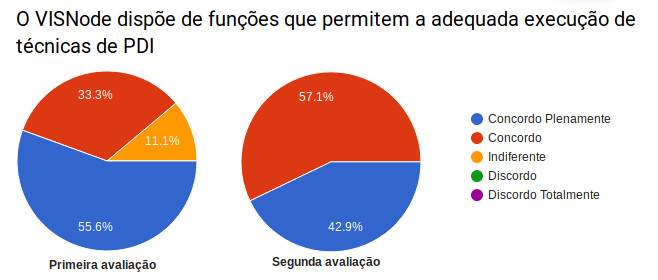
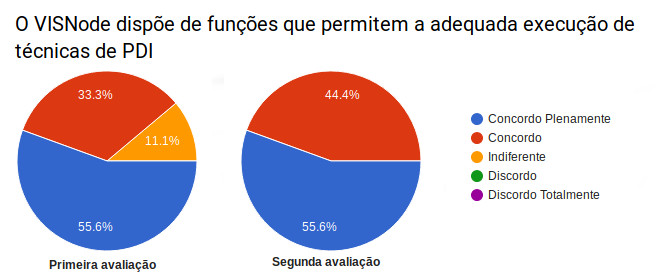
Updates from ShareLaTeX

diff --git a/abntex2-modelo-trabalho-academico.tex b/abntex2-modelo-trabalho-academico.tex
@@ -1103,8 +1103,7 @@ Segundo \citet{guilherme:2007}, para que um pixel seja marcado para exclusão el
 \item Ao menos um dos pixels da segunda máscara deve ser branco;
 \end{itemize}
 
-
-\begin{figure}[ht]
+\begin{figure}[H]
 \centering
 \caption{pixels P2 ou P8 ou P4 devem ser um pixel branco}
 \includegraphics[width=0.3\textwidth]{imagens/zhangsuen1.png}
@@ -1114,7 +1113,7 @@ Fonte: Guilherme (2007, p. 16)
 \end{figure}
 
 
-\begin{figure}[ht]
+\begin{figure}[H]
 \centering
 \caption{pixels P2 ou P8 ou P4 devem ser um pixel branco}
 \includegraphics[width=0.3\textwidth]{imagens/zhangsuen2.png}
@@ -1123,7 +1122,7 @@ Fonte: Guilherme (2007, p. 16)
 \label{fig:zhangsuen2}
 \end{figure}
 
-\begin{figure}[ht]
+\begin{figure}[H]
 \centering
 \caption{pixels P2 ou P4 ou P6 devem ser um pixel branco}
 \includegraphics[width=0.3\textwidth]{imagens/zhangsuen3.png}
@@ -1132,7 +1131,7 @@ Fonte: Guilherme (2007, p. 16)
 \label{fig:zhangsuen3}
 \end{figure}
 
-\begin{figure}[ht]
+\begin{figure}[H]
 \centering
 \caption{pixels P8 ou P6 ou P4 devem ser um pixel branco}
 \includegraphics[width=0.3\textwidth]{imagens/zhangsuen4.png}
@@ -1238,6 +1237,22 @@ O ajuste da curva é realizado levando em consideração forças internas e exte
 Na Figura \ref{fig:snake} é demonstrada uma execução do método de Snakes. (a) É o contorno inicial, (b) é o contorno resultante após aplicação de algumas etapas e (c) contorno final.
 
 A implementação em java para o algoritmo pode ser acessado através do link: \url{https://bit.ly/2LsmV43}.
+
+\subsection{\textit{Flood-fill}}
+
+%-- ultima_revisao
+\textit{Flood-fill} é um algoritmo que tem por objetivo alterar as cores de pixels de um região. Esta técnica possui três parâmetros: um ponto inicial, uma cor alvo e uma cor de destino. O algoritmo irá percorrer todos os pixels conectados pela cor alvo, a partir do ponto inicial, e irá altera-los para a cor de destino \cite{Treuenfels:1994}.
+
+\begin{figure}[ht]
+\centering
+\caption{Exemplo na execução do método \textit{Flood-fill}}
+\includegraphics[width=1\textwidth]{imagens/floodfill.png}
+\sourceAuthor
+\label{fig:flood}
+\end{figure}
+
+A Figura \ref{fig:flood} apresenta um exemplo da execução do \textit{flood-fill}. Partindo de um ponto inicial (a), a vizinhança é
+preenchida (b). O processo é repetido (c) até que a toda a região seja alterada (d).
 
 \section{Considerações}
 
@@ -2301,7 +2316,7 @@ As missões 3 e 4 foram as que tiveram o maior número de falhas, contabilizando
 Tendo em vista a coleta de informações e \textit{feedbacks} de alunos, foi desenvolvido um questionário adaptando de \citet{bez2013}. O questionário é composto por 15 perguntas relacionadas a funcionalidades do sistema, usabilidade, confiabilidade e questões referentes ao aprendizado dos alunos. Quatorze questões são objetivas, variando entre concordo plenamente, concordo, indiferente, discordo e discordo totalmente. Uma questão é dissertativa, que possibilita aos alunos descrever um comentário sobre a ferramenta.
 
 %-- revisao 0
-O questionário foi aplicado no primeiro encontro de avaliação, descrito na seção \ref{sec:validacaoPrimeiroEncontro}, e no último encontro, descrito na seção \ref{sec:validacaoEncontroFinal}. A primeira avaliação foi composta por 9 avaliações, já a segunda, foi composta por 7 avaliações.
+O questionário foi aplicado no primeiro encontro de avaliação, descrito na seção \ref{sec:validacaoPrimeiroEncontro}, e no último encontro, descrito na seção \ref{sec:validacaoEncontroFinal}. A primeira e a segunda avaliação foram compostas por 9 avaliações.
 
 Para a avaliação da ferramenta optou-se por realizar a aplicação do questionário em dois momentos. Esta abordagem visa identificar se houve mudanças em relação a percepção dos estudantes após   adquirirem maiores experiências na utilização do VISNode e no conteúdo da disciplina. Nesta seção serão apresentados os dados obtidos nestas avaliações.
 
@@ -2351,18 +2366,18 @@ Nesta seção serão apresentados os dados obtidos referentes a avaliação das 
                 adequada  execução de \\
                 técnicas de PDI} 
     &
-    3 & 4 &  &  &  \\
+    5 & 4 &  &  &  \\
     \hline
     \makecell[l]{Percebo no VISNode \\ 
                 informações integras e \\
                 confiáveis} 
     &
-    3 & 4 &  &  &  \\
+    5 & 4 &  &  &  \\
     \hline
     \makecell[l]{O VISNode é preciso nos \\
                 resultados apresentados} 
     &
-    3 & 4 &  &  &  \\
+    5 & 4 &  &  &  \\
     \hline
 \end{longtable}
 
@@ -2373,7 +2388,7 @@ Nesta seção serão apresentados os dados obtidos referentes a avaliação das 
 \sourceAuthor
 \end{figure}
 
-A Figura \ref{fig:avaliacaoFuncionalidades1} apresenta os dados coletados nas duas avaliações referentes ao questionamento se o VISNode dispõem de funções que permitem a adequada execução de técnicas de PDI. É possível observar que na primeira avaliação, 55,6\% dos estudantes concordam plenamente, 33,3\% concordam e 11,1\% estão indiferentes. Já na segunda avaliação, o percentual de alunos que concordam aumentou para 57,1\% e os que concordam plenamente diminuíram para 42,9\%. Para este questionamento não houve grandes alterações em relação a primeira e a segunda avaliação, o que vale ressaltar é que na segunda avaliação não houve nenhuma avaliação indiferente ou discordando, demonstrando uma pequena melhora neste questionamento.
+A Figura \ref{fig:avaliacaoFuncionalidades1} apresenta os dados coletados nas duas avaliações referentes ao questionamento se o VISNode dispõem de funções que permitem a adequada execução de técnicas de PDI. É possível observar que na primeira avaliação, 55,6\% dos estudantes concordam plenamente, 33,3\% concordam e 11,1\% estão indiferentes. Já na segunda avaliação, o percentual de alunos que concordam aumentou para 44,4\%. Para este questionamento não houve grandes alterações em relação a primeira e a segunda avaliação, o que vale ressaltar é que na segunda avaliação não houve nenhuma avaliação indiferente ou discordando, demonstrando uma pequena melhora neste questionamento.
 
 \begin{figure}[H]
 \centering
@@ -2382,7 +2397,7 @@ A Figura \ref{fig:avaliacaoFuncionalidades1} apresenta os dados coletados nas du
 \sourceAuthor
 \end{figure}
 
-A Figura \ref{fig:avaliacaoFuncionalidades2} demonstra as respostas referentes ao questionamento se aluno percebe no VISNode informações integras e confiáveis. Na primeira avaliação, 66,7\% concordam plenamente e 33,3\% concorda. Já na segunda avaliação, o percentual de alunos que concordam aumentou para 57,1\% e os que concordam plenamente diminuíram para 42,9\%. A primeira e a segunda avaliação foram positivas, pois a maioria de suas avaliações foram concordo ou concordo plenamente.
+A Figura \ref{fig:avaliacaoFuncionalidades2} demonstra as respostas referentes ao questionamento se aluno percebe no VISNode informações integras e confiáveis. Na primeira avaliação, 66,7\% concordam plenamente e 33,3\% concorda. Já na segunda avaliação, o percentual de alunos que concordam aumentou para 44,4\% e os que concordam plenamente diminuíram para 55,6\%. A primeira e a segunda avaliação foram positivas, pois a maioria de suas avaliações foram concordo ou concordo plenamente.
 
 \begin{figure}[H]
 \centering
@@ -2391,7 +2406,7 @@ A Figura \ref{fig:avaliacaoFuncionalidades2} demonstra as respostas referentes a
 \sourceAuthor
 \end{figure}
 
-Resultados sobre o questionamento se o VISNode é preciso nos resultados são apresentados na Figura \ref{fig:avaliacaoFuncionalidades3}. Os dados indicam que na primeira avaliação, 44,4\% concordam plenamente, 44,4\% concordam e 11,1\% discordam. Na segunda avaliação, o percentual de alunos que concordam aumentou para 57,1\% e os que concordam plenamente diminuíram para 42,9\%. Comparando a primeira e a segunda avaliação, o possível identificar que na segunda avaliação não houve nenhuma avaliação negativa.
+Resultados sobre o questionamento se o VISNode é preciso nos resultados são apresentados na Figura \ref{fig:avaliacaoFuncionalidades3}. Os dados indicam que na primeira avaliação, 44,4\% concordam plenamente, 44,4\% concordam e 11,1\% discordam. Na segunda avaliação, o percentual de alunos que concordam aumentou para 44,4\% e os que concordam plenamente aumentou para 55,6\%. Comparando a primeira e a segunda avaliação, o possível identificar que na segunda avaliação não houve nenhuma avaliação negativa.
 
 Analisando os resultados da avaliação das funcionalidades da ferramenta, é possível constatar que a maioria das avaliações foram positivas, variando entre Concordo e Concordo plenamente. Houve somente uma avaliação Discordo em relação a precisão dos resultados apresentados, e uma avaliação indiferente em relação a correta execução de técnicas de PDI na primeira avaliação. Na segunda avaliação, todas as respostas foram positivas.
 
@@ -2431,12 +2446,12 @@ Os resultados obtidos referentes a avaliação de confiabilidade da ferramenta s
     \makecell[l]{O VISNode apresenta erros\\
                 com frequência} 
     &
-     & 2 & 2 & 3 &  \\
+     & 3 & 2 & 4 &  \\
     \hline
     \makecell[l]{O VISNode informa de forma \\
                 clara quando ocorrem erros} 
     &
-     & 2 & 2 & 3 &  \\
+     & 2 & 2 & 5 &  \\
     \hline
 \end{longtable}
 
@@ -2447,7 +2462,7 @@ Os resultados obtidos referentes a avaliação de confiabilidade da ferramenta s
 \sourceAuthor
 \end{figure}
 
-Conforme a avaliação, 11,1\% dos estudantes concordam plenamente que o VISNode apresenta erros com frequência, 44,4\% concordam, 22,2\% estão indiferentes e 22,2\% discordam. Já na segunda avaliação o percentual de alunos que concordam diminuiu para 28,6,1\%, os que discordam aumentou para 42,9\% e os indiferentes aumentou para 28,6\%. Este dados são apresentados na Figura  \ref{fig:avaliacaoConfiabilidade1}. Comparando as duas avaliações, o que vale ressaltar é que na segunda avaliação não houve nenhuma avaliação concordando plenamente e o número dos que discordam aumentou, demonstrando uma pequena melhora neste questionamento.
+Conforme a avaliação, 11,1\% dos estudantes concordam plenamente que o VISNode apresenta erros com frequência, 44,4\% concordam, 22,2\% estão indiferentes e 22,2\% discordam. Já na segunda avaliação, o percentual de alunos que concordam diminuiu para 33,3\%, os que discordam aumentou para 44,4\%. Este dados são apresentados na Figura \ref{fig:avaliacaoConfiabilidade1}. Comparando as duas avaliações, o que vale ressaltar é que na segunda avaliação não houve nenhuma avaliação concordando plenamente e o número dos que discordam aumentou, demonstrando uma pequena melhora neste questionamento.
 
 \begin{figure}[H]
 \centering
@@ -2456,7 +2471,7 @@ Conforme a avaliação, 11,1\% dos estudantes concordam plenamente que o VISNode
 \sourceAuthor
 \end{figure}
 
-A Figura \ref{fig:avaliacaoConfiabilidade2} apresenta os dados referentes ao questionamento se o VISNode informa de forma clara quando ocorrem erros. Na primeira avaliação, 44,4\% dos estudantes concordaram e 55,6\% estão indiferentes. Já na segunda avaliação, 28,6\% dos alunos concordam, o percentual de indiferentes diminuiu para 28,6\% e os que discordam diminuíram para 42,9\%. Para este questionamento houve algumas alterações em relação a primeira e a segunda avaliação, o que vale ressaltar é que na segunda avaliação alunos concordaram que o VISNode informa de forma clara quando ocorrem erros, demonstrando uma mudança de percepção.
+A Figura \ref{fig:avaliacaoConfiabilidade2} apresenta os dados referentes ao questionamento se o VISNode informa de forma clara quando ocorrem erros. Na primeira avaliação, 44,4\% dos estudantes discordam e 55,6\% estão indiferentes. Já na segunda avaliação, 22,2\% dos alunos concordam, o percentual de indiferentes diminuiu para 22,2\% e os que discordam aumentou para 55,6\%. Para este questionamento houve algumas alterações em relação a primeira e a segunda avaliação, o que vale ressaltar é que na segunda avaliação alunos concordaram que o VISNode informa de forma clara quando ocorrem erros, demonstrando uma mudança de percepção.
 
 Os dados coletados indicam que, em alguns casos, a ferramenta apresenta erros e quando estes erros ocorrem, não são informados de maneira clara. Estas avaliações demonstram uma deficiência da ferramenta, que deve ser aprimorada.
 
@@ -2502,18 +2517,18 @@ Nesta seção serão apresentados os dados coletados referentes a avaliação da
     \makecell[l]{A interface do VISNode é \\ 
                 de uso intuitivo} 
     &
-    3 & 2 & 2 &  &  \\
+    3 & 4 & 2 &  &  \\
     \hline
     \makecell[l]{O VISNode é fácil de \\
                 aprender a usar} 
     &
-    3 & 2 & 2 &  &   \\
+    4 & 3 & 2 &  &   \\
     \hline
     \makecell[l]{O tempo de resposta nas \\
                 interações com o VISNode \\ 
                 é adequado} 
     &
-    6 & 1 &  &  &  \\
+    7 & 2 &  &  &  \\
     \hline
 \end{longtable}
 
@@ -2524,7 +2539,7 @@ Nesta seção serão apresentados os dados coletados referentes a avaliação da
 \sourceAuthor
 \end{figure}
 
-Respostas referentes ao questionamento  se a interface do VISNode é de uso intuitivo são apresentados na Figura \ref{fig:avaliacaoUsabilidade1}. Analisando esta Figura, é possível identificar que na primeira avaliação, 33,3\% dos estudantes concordam plenamente, 55,6\% concordam e 11,1\% discordam. Na segunda avaliação, o percentual de alunos que concordam plenamente aumentou para 42,9\%, os que discordam diminuíram para 28,6\% e apresentou um percentual de 28,6\% de alunos indiferentes. Comparando as duas avaliações, é possível observar que na segunda avaliação não houve nenhuma avaliação discordando, diferente do que ocorreu na primeira.
+Respostas referentes ao questionamento  se a interface do VISNode é de uso intuitivo são apresentados na Figura \ref{fig:avaliacaoUsabilidade1}. Analisando esta Figura, é possível identificar que na primeira avaliação, 33,3\% dos estudantes concordam plenamente, 55,6\% concordam e 11,1\% discordam. Na segunda avaliação, o percentual de alunos que concordam diminuiu para 44,4\% e apresentou um percentual de 22,2\% de alunos indiferentes. Comparando as duas avaliações, é possível observar que na segunda avaliação não houve nenhuma avaliação discordando, diferente do que ocorreu na primeira.
 
 \begin{figure}[H]
 \centering
@@ -2533,7 +2548,7 @@ Respostas referentes ao questionamento  se a interface do VISNode é de uso intu
 \sourceAuthor
 \end{figure}
 
-De acordo com os dados coletados, é possível observar que na primeira avaliação 33,3\% dos estudantes concordam plenamente que o VISNode é fácil de aprender a usar, 44,4\% concordam, 11,1\% discordam e 11,1\% discordam totalmente. Já na segunda avaliação, o percentual de alunos que concordam plenamente aumentou para 42,9\%, os que discordam diminuiu para 28,6\% e apresentou um percentual de 28,6\% de alunos indiferentes. Para este questionamento, o que vale ressaltar é que na segunda avaliação não houve nenhum resultado discordando. Este dados são apresentados na Figura \ref{fig:avaliacaoUsabilidade2}.
+De acordo com os dados coletados, é possível observar que na primeira avaliação 33,3\% dos estudantes concordam plenamente que o VISNode é fácil de aprender a usar, 44,4\% concordam, 11,1\% discordam e 11,1\% discordam totalmente. Já na segunda avaliação, o percentual de alunos que concordam plenamente aumentou para 44,4\%, os que concordam diminuiu para 33,3\% e apresentou um percentual de 22,2\% de alunos indiferentes. Para este questionamento, o que vale ressaltar é que na segunda avaliação não houve nenhum resultado discordando. Este dados são apresentados na Figura \ref{fig:avaliacaoUsabilidade2}.
 
 \begin{figure}[H]
 \centering
@@ -2542,9 +2557,9 @@ De acordo com os dados coletados, é possível observar que na primeira avaliaç
 \sourceAuthor
 \end{figure}
 
-A Figura \ref{fig:avaliacaoUsabilidade3} apresenta os dados referentes ao questionamento se o tempo de resposta nas interações com o VISNode é adequado. É possível observar que na primeira avaliação, 66,7\%  concordam plenamente que é adequado, 22,2\% concordam e 11,1\% foram indiferentes. Na segunda avaliação, o percentual de alunos que concordam plenamente aumentou para 85,7\% e o percentual de concordo diminui para 14,3\%. Comparando as duas avaliações, é possível perceber que na segunda avaliação não houve nenhum resultado indiferente.
+A Figura \ref{fig:avaliacaoUsabilidade3} apresenta os dados referentes ao questionamento se o tempo de resposta nas interações com o VISNode é adequado. É possível observar que na primeira avaliação, 66,7\%  concordam plenamente que é adequado, 22,2\% concordam e 11,1\% foram indiferentes. Na segunda avaliação, o percentual de alunos que concordam plenamente aumentou para 77,8\%. Comparando as duas avaliações, é possível perceber que na segunda avaliação não houve nenhum resultado indiferente.
 
-Analisando os resultados da avaliação de usabilidade é possível verificar que a maior parte dos resultados concordam que o VISNode é de uso intuitivo e fácil de aprender. Houve um percentual baixo de avaliações discordando que o uso da ferramenta é intuitivo e que o VISNode é fácil de aprender a utilizar. Estas avaliações negativas demonstram um ponto de melhoria no sistema que pode ser explorado.
+Analisando os resultados da avaliação de usabilidade é possível verificar que a maior parte dos resultados concordam que o VISNode é de uso intuitivo e fácil de aprender. Houve um percentual baixo de avaliações discordando que o uso da ferramenta é intuitivo e que o VISNode é fácil de aprender a utilizar, na primeira avaliação. Estas avaliações negativas demonstram um ponto de melhoria no sistema que pode ser explorado.
 
 \subsection{Avaliação de aprendizagem}
 
@@ -2606,36 +2621,36 @@ Os dados obtidos referentes a avaliação da aprendizagem da ferramenta serão a
     \makecell[l]{O VISNode permite que o \\
                 usuário retenha \\ conhecimento} 
     &
-    4 & 3 &  &  &  \\
+    5 & 4 &  &  &  \\
     \hline
     \makecell[l]{O VISNode é uma \\
                 ferramenta motivacional \\
                 para aprendizagem} 
     &
-    3 & 3 & 1 &  &   \\
+    4 & 4 & 1 &  &   \\
     \hline
     \makecell[l]{O feedback do VISNode ao \\ 
                 aluno é adequado} 
     &
-    2 & 2 & 2 & 1 &  \\
+    4 & 2 & 2 & 1 &  \\
     \hline 
        \makecell[l]{O VISNode permite maior \\
                     participação do aluno, \\ 
                     interferindo na relação \\
                     pedagógica professor x aluno} 
     &
-    3 & 1 & 2 & 1 &  \\
+    5 & 1 & 2 & 1 &  \\
     \hline
     \makecell[l]{O VISNode favorece o aluno \\
                 a estudar de forma \\ autônoma} 
     &
-    2 & 4 & 1 &  &   \\
+    3 & 4 & 1 & 1 &   \\
     \hline
     \makecell[l]{O VISNode pode ser \\
                 utilizado como um recurso \\
                 efetivo na educação de PDI} 
     &
-    4 & 2 & 1  &  &  \\
+    6 & 2 & 1  &  &  \\
     \hline
 \end{longtable}
 
@@ -2646,7 +2661,7 @@ Os dados obtidos referentes a avaliação da aprendizagem da ferramenta serão a
 \sourceAuthor
 \end{figure}
 
-Em relação ao questionamento se VISNode permite que o usuário retenha conhecimento, é possível identificar que na primeira avaliação, 66,7\% dos estudantes concordam plenamente, 22,2\% concordam e 11,1\% foram indiferentes. Já na segunda avaliação, o percentual de alunos que concordam plenamente diminuiu para 57,1\% e o percentual de concordo aumentou para 42,9\%. Para este questionamento, o que vale ressaltar é que na segunda avaliação não houve nenhuma avaliação indiferente. Este dados são apresentados na Figura \ref{fig:avaliacaoAprendizagem1}.
+Em relação ao questionamento se VISNode permite que o usuário retenha conhecimento, é possível identificar que na primeira avaliação, 66,7\% dos estudantes concordam plenamente, 22,2\% concordam e 11,1\% foram indiferentes. Já na segunda avaliação, o percentual de alunos que concordam plenamente diminuiu para 55,6\% e o percentual de concordo aumentou para 44,4\%. Para este questionamento, o que vale ressaltar é que na segunda avaliação não houve nenhuma avaliação indiferente. Este dados são apresentados na Figura \ref{fig:avaliacaoAprendizagem1}.
 
 \begin{figure}[H]
 \centering
@@ -2655,7 +2670,7 @@ Em relação ao questionamento se VISNode permite que o usuário retenha conheci
 \sourceAuthor
 \end{figure}
 
-Os resultados coletados demonstram que na primeira avaliação 55,6\% concordam plenamente que o VISNode é uma ferramenta motivacional para aprendizagem e 44,4\% concordam. Na segunda avaliação, o percentual de alunos que concordam plenamente diminuiu para 42,9\% o percentual de concordo diminuiu para 42,9\% e 14,3\% foram indiferentes. Comparando a primeira e a segunda avaliação, é possível constatar que na segunda avaliação houve avaliações indiferentes. Este dados são apresentados na Figura \ref{fig:avaliacaoAprendizagem2}.
+Os resultados coletados demonstram que na primeira avaliação 55,6\% concordam plenamente que o VISNode é uma ferramenta motivacional para aprendizagem e 44,4\% concordam. Na segunda avaliação, o percentual de alunos que concordam plenamente diminuiu para 44,4\% e 11,1\% foram indiferentes. Comparando a primeira e a segunda avaliação, é possível constatar que na segunda avaliação houve avaliações indiferentes. Este dados são apresentados na Figura \ref{fig:avaliacaoAprendizagem2}.
 
 \begin{figure}[H]
 \centering
@@ -2664,7 +2679,7 @@ Os resultados coletados demonstram que na primeira avaliação 55,6\% concordam 
 \sourceAuthor
 \end{figure}
 
-A Figura \ref{fig:avaliacaoAprendizagem3} apresenta os dados coletados nas duas avaliações referentes ao questionamento se o \textit{feedback} do VISNode ao aluno é adequado. É possível observar que na primeira avaliação, 44,4\% concordam plenamente, 44,4\% concordam e 11,1\% foram indiferentes. Já na segunda avaliação, o percentual de alunos que concordam plenamente diminuiu para 28,6\%, o de concordo diminuiu para 28,6\%, o percentual de indiferentes aumentou para 28,6\% e houve 14,3\% que discordaram. Para este questionamento, o que vale ressaltar é que na segunda avaliação alguns alunos discordaram.
+A Figura \ref{fig:avaliacaoAprendizagem3} apresenta os dados coletados nas duas avaliações referentes ao questionamento se o \textit{feedback} do VISNode ao aluno é adequado. É possível observar que na primeira avaliação, 44,4\% concordam plenamente, 44,4\% concordam e 11,1\% foram indiferentes. Já na segunda avaliação, o percentual de alunos que concordam diminuiu para 22,2\%, o percentual de indiferentes aumentou para 22,2\% e houve 11,1\% que discordaram. Para este questionamento, o que vale ressaltar é que na segunda avaliação alguns alunos discordaram.
 
 \begin{figure}[H]
 \centering
@@ -2673,7 +2688,7 @@ A Figura \ref{fig:avaliacaoAprendizagem3} apresenta os dados coletados nas duas 
 \sourceAuthor
 \end{figure}
 
-De acordo com os dados coletados, é possível identificar que na primeira avaliação, 22,2\% concordam plenamente que o VISNode permite maior participação do aluno, 44,4 \% concordam e 33,3\% foram indiferentes. Na segunda avaliação, o percentual e alunos que concordam plenamente aumentou para 42,9\%, o percentual de concordo diminuiu para 14,3\%, o percentual de indiferentes diminuiu para 28,6\% e 14,3\% discordam. Analisando as duas avaliações, é possível observar que na segunda avaliação houve avaliações que discordaram. Este dados são demonstrados na Figura \ref{fig:avaliacaoAprendizagem4}.
+De acordo com os dados coletados, é possível identificar que na primeira avaliação, 22,2\% concordam plenamente que o VISNode permite maior participação do aluno, 44,4 \% concordam e 33,3\% foram indiferentes. Na segunda avaliação, o percentual e alunos que concordam plenamente aumentou para 55,6\%, o percentual de concordo diminuiu para 11,1\%, o percentual de indiferentes diminuiu para 22,2\% e 11,1\% discordaram. Analisando as duas avaliações, é possível observar que na segunda avaliação houve avaliações que discordaram. Este dados são demonstrados na Figura \ref{fig:avaliacaoAprendizagem4}.
 
 \begin{figure}[H]
 \centering
@@ -2682,7 +2697,7 @@ De acordo com os dados coletados, é possível identificar que na primeira avali
 \sourceAuthor
 \end{figure}
 
-Para o questionamento se o VISNode favorece o aluno a estudar de forma autônoma, é possível identificar que na primeira avaliação, 33,3\% concordam plenamente, 33,3\% concordam, 22,2\% discordam e 11,1\% foram indiferentes. Já na segunda avaliação, o percentual de alunos que concordam plenamente diminuiu para 28,6\%, o percentual de concordo aumentou para 57,1\% e os que foram indiferentes aumentou para 14,3\%. Para este questionamento, o que vale ressaltar é que na segunda avaliação não houve avaliações que discordaram.
+Para o questionamento se o VISNode favorece o aluno a estudar de forma autônoma, é possível identificar que na primeira avaliação, 33,3\% concordam plenamente, 33,3\% concordam, 22,2\% discordam e 11,1\% foram indiferentes. Já na segunda avaliação, o percentual de alunos que concordam aumentou para 44,4\% e o percentual de discordância diminuiu para 11,1\%. Para este questionamento, o que vale ressaltar é que na segunda avaliação houve redução no percentual de avaliações que discordaram.
 
 \begin{figure}[H]
 \centering
@@ -2691,7 +2706,7 @@ Para o questionamento se o VISNode favorece o aluno a estudar de forma autônoma
 \sourceAuthor
 \end{figure}
 
-Informações referentes ao questionamento se o VISNode pode ser utilizado como recurso efetivo na educação de PDI, são apresentados na Figura \ref{fig:avaliacaoAprendizagem6}. É demonstrado que na primeira avaliação, 77,8\% concordam plenamente e 22,2\% concordam. Na segunda avaliação, o percentual de alunos que concordam plenamente diminuiu para 57,1\% o percentual de concordo aumentou para 28,6\%, e houve 14,3 \% de avaliações indiferentes. Comparando a primeira e a segunda avaliação, é constatado que na segunda avaliação houve avaliações indiferentes.
+Informações referentes ao questionamento se o VISNode pode ser utilizado como recurso efetivo na educação de PDI, são apresentados na Figura \ref{fig:avaliacaoAprendizagem6}. É demonstrado que na primeira avaliação, 77,8\% concordam plenamente e 22,2\% concordam. Na segunda avaliação, o percentual de alunos que concordam plenamente diminuiu para 66,7\% e houve 11,1 \% de avaliações indiferentes. Comparando a primeira e a segunda avaliação, é constatado que na segunda avaliação houve avaliações indiferentes.
 
 Na avaliação de aprendizagem da ferramenta, foram obtidos resultados positivos. A maior parte das avaliações foram concordando que o VISNode pode auxiliar neste quesito. Houve poucas avaliações discordando e nenhuma discordando totalmente.
 
@@ -2699,11 +2714,9 @@ Na avaliação de aprendizagem da ferramenta, foram obtidos resultados positivos
 
 O Quadro \ref{tab:avaliacaoComentarios} apresenta os comentários recebidos através do questionário de validação da ferramenta.
 
-\begin{table}[H]
-\centering
-\captionof{table}{Comentário recebidos no questionário sobre o VISNode} \label{tab:avaliacaoComentarios}
-\renewcommand{\arraystretch}{1.8}
-\begin{tabular}{|c|l|}
+\begin{longtable}{|c|l|}
+\caption{Comentário recebidos no questionário sobre o VISNode} \label{tab:avaliacaoComentarios}
+\renewcommand{\arraystretch}{1.8} \\
     \hline
     1 &
     \makecell[l]{
@@ -2738,9 +2751,7 @@ meu notebook. Ao instalar o Java 8 x32 solucionou o problema.
     \makecell[l]{
 "Ajustar o desfazer ligações"} \\   
     \hline
-\end{tabular}
-\centering
-\end{table}
+\end{longtable}
 
 O comentário 3 é referente a uma incompatibilidade do VISNode com a versão 10 do Java. Uma das dependências do projeto não é compatível com esta versão. Este cometário já propõem uma solução para este problema, que é distribuir uma versão do Java junto com o software. O comentário 5 descreve uma deficiência existente da ferramenta VISNode. Para o usuário desfazer uma conexão entre dois nodos é necessário conecta-los novamente. Este comportamento não é intuitivo, uma possível solução para este problema é a criação de uma ação que permita selecionar conexões e deleta-las com a função \textit{delete} do teclado.
 
